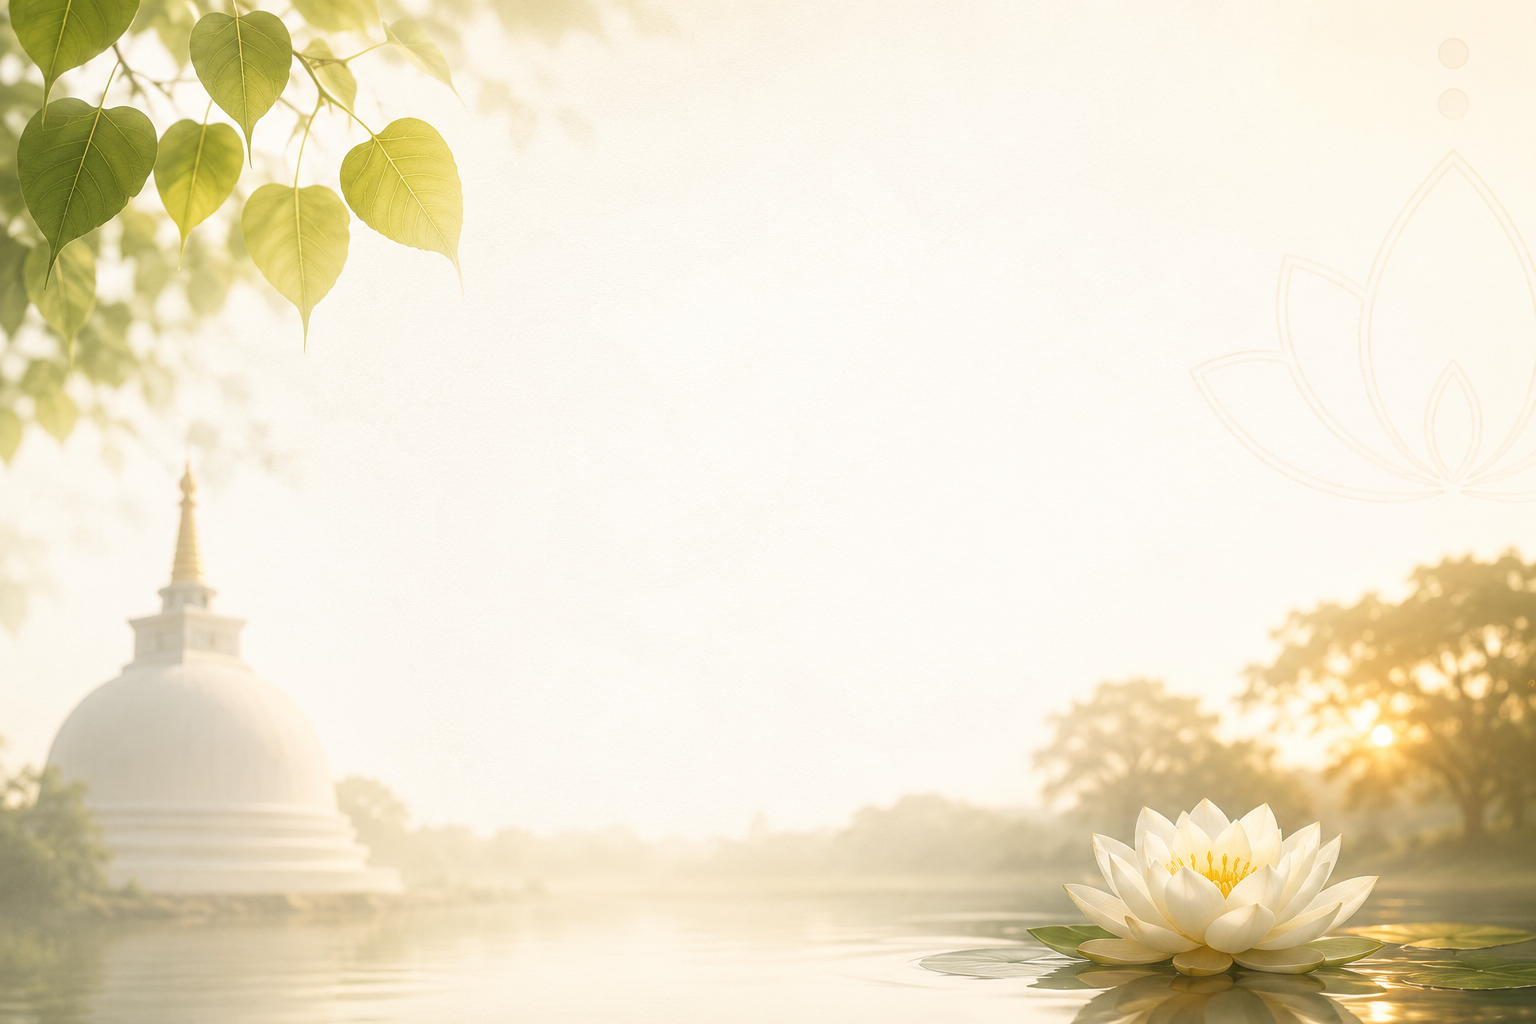
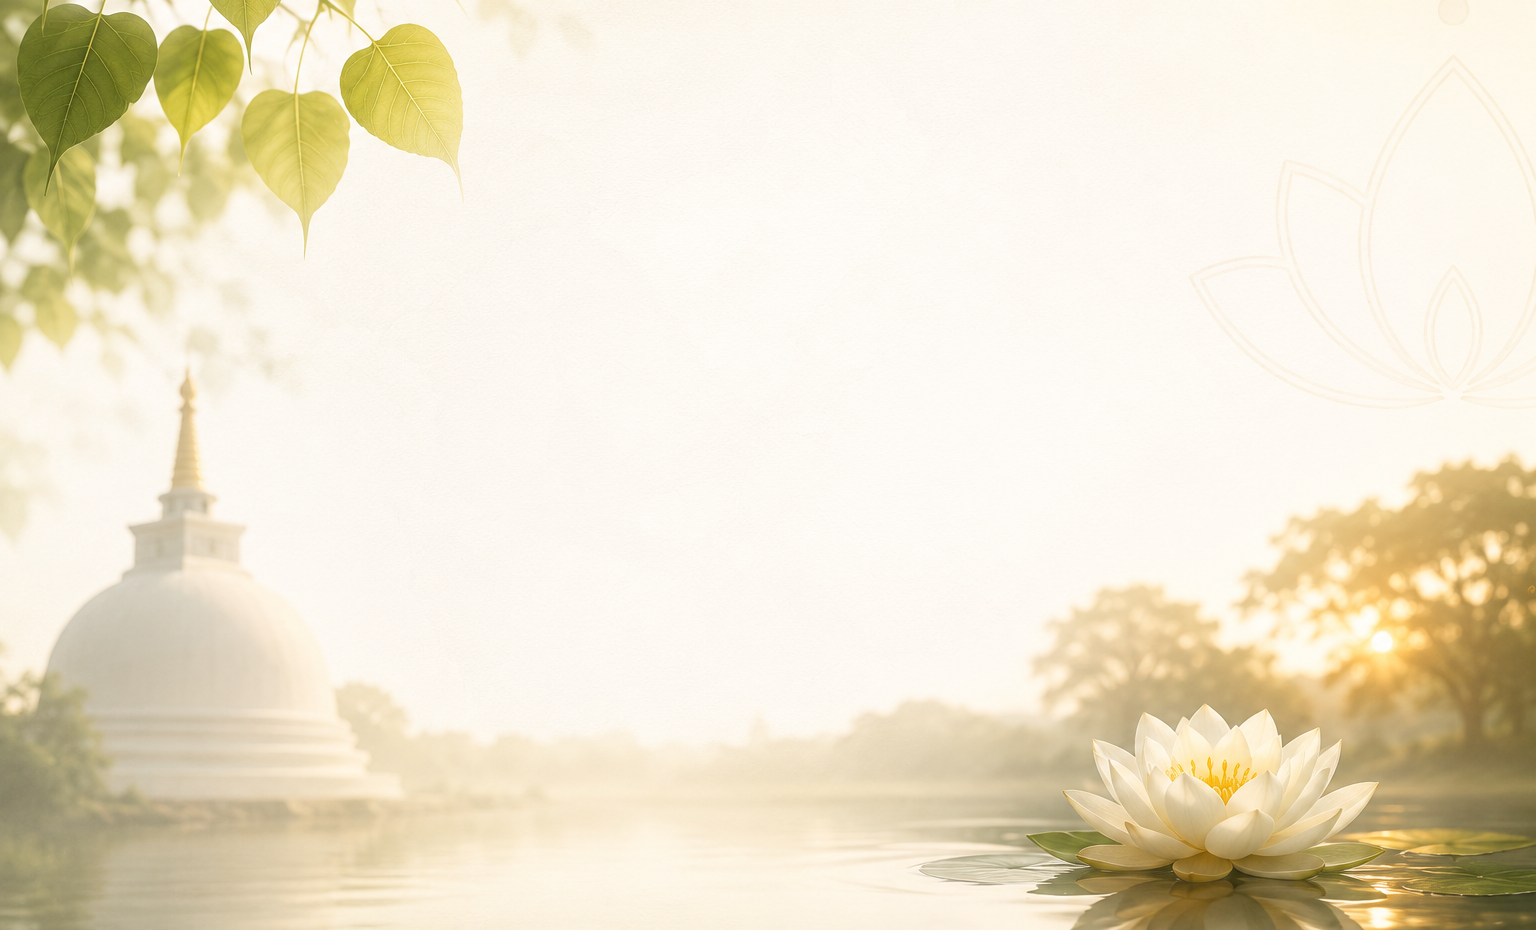
update

diff --git a/app/page.js b/app/page.js
@@ -82,16 +82,16 @@ export default function Home() {
     <main className="relative pb-24 md:pb-0">
       <Navbar transparent />
 
-      <section className="relative overflow-hidden px-6 py-20 md:py-28 min-h-[480px] md:min-h-[600px] flex items-center">
+      <section className="relative overflow-hidden px-6 py-20 md:py-28 min-h-[480px] md:min-h-[640px] lg:min-h-[720px] flex items-center">
         <Image
           src="/img/67436467.png"
           alt="Buddhist stupa and lotus flower by a calm lake at sunrise"
           fill
           priority
           sizes="100vw"
-          className="object-cover"
+          className="object-cover object-[center_70%]"
         />
-        <div className="absolute inset-0 bg-gradient-to-r from-background/70 via-background/35 to-transparent" />
+        <div className="absolute inset-x-0 top-0 h-32 md:h-40 bg-gradient-to-b from-background/70 to-transparent" />
 
         <div className="relative max-w-3xl w-full mx-auto">
           <h1 className="animate-fade-in-up text-5xl sm:text-6xl md:text-7xl font-bold text-primary mb-4 tracking-wide">